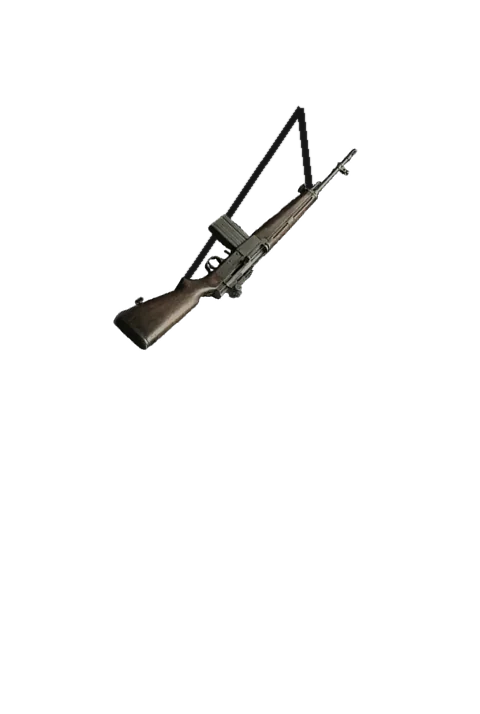
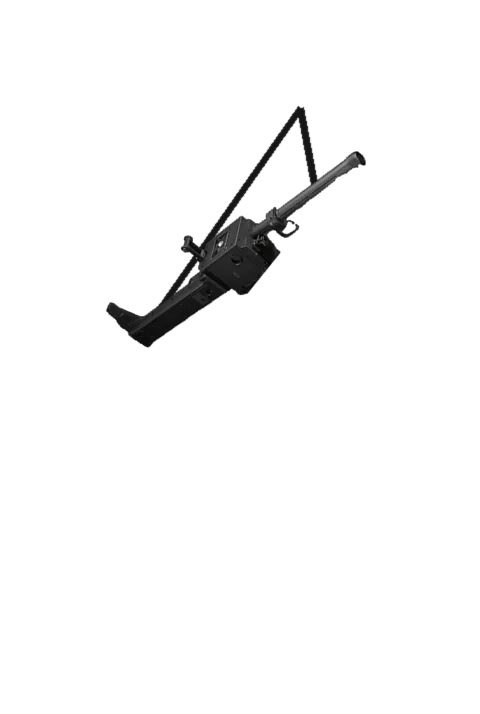
crime: v107 «·» no fim da linha e metralhadoras com fotografia certa
O «·» que separa duas coisas fica invisível quando calha no fim de uma
linha (ui.js: cada separador num span; depois de cada mudança no ecrã vê-se
se o que vem a seguir passou para a linha de baixo). As metralhadoras pesada
.50, de tripé, de cinto, de esquadra e média tinham fotografias de
espingardas de madeira ou de carabinas: fotografias novas (Leonardo Lucid
Origin no Cloudflare) e camadas do boneco refeitas, sem tripé nem bandoleira.

PT: As metralhadoras (pesada .50, de tripé, de cinto, de esquadra e média) têm fotografias novas que mostram mesmo uma metralhadora, e o boneco usa-as.
PT: Um «·» que calhava no fim de uma linha deixou de aparecer.
EN: The machine guns (.50 heavy, tripod, belt-fed, squad and medium) have new photos that actually show a machine gun, and your character uses them.
EN: A «·» that landed at the end of a line no longer shows.
IMG: gear: metralhadorapesada, metralhadoratripe, metralhadoracinto, metralhadoraesquadra, metralhadoramedia (Lucid Origin); boneco/w das mesmas

Changed region(s): [[0.2188, 0.1541, 0.7812, 0.493], [0.5625, 0.1849, 0.5938, 0.2157], [0.5312, 0.2157, 0.5625, 0.2465]]

diff --git a/sites/crime/js/i18n.js b/sites/crime/js/i18n.js
@@ -884,7 +884,7 @@ const D = {
     street: 'Rua', gym: 'Ginásio', empire: 'Império', city: 'Cidade', fights: 'Lutas',
     streetTitle: 'A rua', streetSub: 'Escolhe um golpe. Mais risco, mais lucro.',
     // v97: armas novas e acessórios
-    g_metralhadoratripe: 'Metralhadora de tripé', g_metralhadorafuzileiro: 'Metralhadora de fuzileiros', g_espingardaautopesada: 'Espingarda automática pesada', g_metralhadoraesquadra: 'Metralhadora de esquadra', g_luvaschumbo: 'Luvas com chumbo', g_soqueirapicos: 'Soqueira com picos', g_punhalsoco: 'Punhal de soco', g_garras: 'Garras de aço', g_soqueiralamina: 'Soqueira com lâmina', g_manopla: 'Manopla blindada', g_soqueiratitanio: 'Soqueira de titânio', g_xisato: 'X-ato', g_canivete: 'Canivete', g_facacozinha: 'Faca de cozinha', g_borboleta: 'Navalha borboleta', g_estilete: 'Estilete', g_baioneta: 'Baioneta', g_karambit: 'Karambit', g_facacombate: 'Faca de combate', g_kukri: 'Kukri', g_tanto: 'Tantō', g_garrafa: 'Garrafa partida', g_canoferro: 'Cano de ferro', g_tacobasebol: 'Taco de basebol', g_cassetete: 'Cassetete', g_martelo: 'Martelo', g_alavanca: 'Alavanca', g_nunchaku: 'Nunchaku', g_tacopregos: 'Taco com pregos', g_bastaoextensivel: 'Bastão extensível', g_marreta: 'Marreta', g_maca: 'Maça', g_martelodeguerra: 'Martelo de guerra', g_foice: 'Foice', g_machadinha: 'Machadinha', g_catanamato: 'Catana de mato', g_tomahawk: 'Tomahawk', g_gadanha: 'Gadanha', g_machadobatalha: 'Machado de batalha', g_motosserra: 'Motosserra', g_alabarda: 'Alabarda', g_florete: 'Florete', g_rapieira: 'Rapieira', g_cimitarra: 'Cimitarra', g_wakizashi: 'Wakizashi', g_espadalarga: 'Espada larga', g_espadamao: 'Espada de mão e meia', g_claymore: 'Claymore', g_pistola22: 'Pistola .22', g_pistolabolso: 'Pistola de bolso', g_pistola380: 'Pistola .380', g_pistolacompacta: 'Pistola compacta', g_pistola9: 'Pistola 9 mm', g_pistolapolicia: 'Pistola da polícia', g_pistolatiro: 'Pistola de tiro', g_pistola10: 'Pistola 10 mm', g_pistolamilitar: 'Pistola militar', g_pistolaaco: 'Pistola de aço inox', g_pistola57: 'Pistola 5,7 mm', g_pistolaauto: 'Pistola automática', g_pistolacarbono: 'Pistola de carbono', g_pistola50ae: 'Pistola .50', g_pistolaouro: 'Pistola dourada', g_revolver22: 'Revólver .22', g_snubnose: 'Revólver de cano curto', g_revolver357: 'Revólver .357', g_revolver44: 'Revólver .44', g_revolvercaca: 'Revólver de caça', g_revolver454: 'Revólver .454', g_revolver500: 'Revólver .500', g_revolvercolecao: 'Revólver de colecionador', g_micro: 'Micro-metralhadora', g_smg9: 'Metralhadora 9 mm', g_smgdobravel: 'Metralhadora dobrável', g_smg45: 'Metralhadora .45', g_smgpdw: 'Arma de defesa pessoal', g_smgsilenciosa: 'Metralhadora silenciosa', g_smgbullpup: 'Metralhadora bullpup', g_smgtambor: 'Metralhadora de tambor', g_smgtatica: 'Metralhadora tática', g_cacadeiraserrada: 'Caçadeira de canos serrados', g_cacadeiradupla: 'Caçadeira de dois canos', g_cacadeirapolicial: 'Caçadeira policial', g_cacadeirasemi: 'Caçadeira semiautomática', g_cacadeiratatica: 'Caçadeira tática', g_cacadeirabullpup: 'Caçadeira bullpup', g_cacadeiracarregador: 'Caçadeira de carregador', g_cacadeiraauto: 'Caçadeira automática', g_cacadeiratambor: 'Caçadeira de tambor', g_cacadeiragravada: 'Caçadeira gravada', g_carabinacurta: 'Carabina de cano curto', g_carabina556: 'Carabina 5,56', g_espingardaassalto: 'Espingarda de assalto', g_carabinapolicia: 'Carabina da polícia', g_ar762: 'Espingarda 7,62', g_carabinamilitar: 'Carabina militar', g_bullpup: 'Espingarda bullpup', g_carabinadmr: 'Espingarda de atirador designado', g_batalhapesada: 'Espingarda de batalha pesada', g_carabinaforcas: 'Carabina das forças especiais', g_carabinacarbono: 'Carabina de carbono', g_carabinaprototipo: 'Protótipo', g_espingardaar: 'Espingarda de ar comprimido', g_espingarda22: 'Espingarda .22 de repetição', g_espingardaalavanca: 'Espingarda de alavanca', g_espingarda3030: 'Espingarda .30-30', g_espingardavarmint: 'Espingarda de pragas', g_ferrolho: 'Espingarda de ferrolho', g_espingardamontanha: 'Espingarda de montanha', g_espingarda300: 'Espingarda .300 Magnum', g_espingardasafari: 'Espingarda de safari', g_espingardaexpress: 'Espingarda express de dois canos', g_sniper308: 'Sniper .308', g_sniperpolicia: 'Sniper da polícia', g_snipersemi: 'Sniper semiautomática', g_sniperbullpup: 'Sniper bullpup', g_sniper338: 'Sniper .338', g_snipersilenciosa: 'Sniper silenciosa', g_sniperartico: 'Sniper ártica', g_snipercompeticao: 'Sniper de competição', g_sniperanti: 'Antimaterial .50', g_sniperlonga: 'Sniper de longo alcance', g_metralhadoraligeira: 'Metralhadora ligeira', g_metralhadorapesada: 'Metralhadora pesada .50', g_metralhadoramedia: 'Metralhadora média', g_metralhadoracinto: 'Metralhadora de cinto', g_mod_reflex: 'Mira reflex', g_mod_holo: 'Mira holográfica', g_mod_luneta4: 'Luneta 4×', g_mod_luneta12: 'Luneta 12×', g_mod_laser: 'Mira laser', g_mod_silenciador: 'Silenciador', g_mod_compensador: 'Compensador', g_mod_choke: 'Choke', g_mod_carregador: 'Carregador alargado', g_mod_tambor: 'Carregador de tambor', g_mod_punho: 'Punho vertical', g_mod_bipe: 'Bipé', g_mod_fita: 'Fita de punho', g_mod_afiar: 'Gume afiado', g_mod_pregos: 'Pregos e arame',
+    g_metralhadoratripe: 'Metralhadora de tripé', g_metralhadorafuzileiro: 'Metralhadora de fuzileiros', g_espingardaautopesada: 'Espingarda automática pesada', g_metralhadoraesquadra: 'Metralhadora de esquadra', g_luvaschumbo: 'Luvas com chumbo', g_soqueirapicos: 'Soqueira com picos', g_punhalsoco: 'Punhal de soco', g_garras: 'Garras de aço', g_soqueiralamina: 'Soqueira com lâmina', g_manopla: 'Manopla blindada', g_soqueiratitanio: 'Soqueira de titânio', g_xisato: 'X-ato', g_canivete: 'Canivete', g_facacozinha: 'Faca de cozinha', g_borboleta: 'Navalha borboleta', g_estilete: 'Estilete', g_baioneta: 'Baioneta', g_karambit: 'Karambit', g_facacombate: 'Faca de combate', g_kukri: 'Kukri', g_tanto: 'Tantō', g_garrafa: 'Garrafa partida', g_canoferro: 'Cano de ferro', g_tacobasebol: 'Taco de basebol', g_cassetete: 'Cassetete', g_martelo: 'Martelo', g_alavanca: 'Alavanca', g_nunchaku: 'Nunchaku', g_tacopregos: 'Taco com pregos', g_bastaoextensivel: 'Bastão extensível', g_marreta: 'Marreta', g_maca: 'Maça', g_martelodeguerra: 'Martelo de guerra', g_foice: 'Foice', g_machadinha: 'Machadinha', g_catanamato: 'Catana de mato', g_tomahawk: 'Tomahawk', g_gadanha: 'Gadanha', g_machadobatalha: 'Machado de batalha', g_motosserra: 'Motosserra', g_alabarda: 'Alabarda', g_florete: 'Florete', g_rapieira: 'Rapieira', g_cimitarra: 'Cimitarra', g_wakizashi: 'Wakizashi', g_espadalarga: 'Espada larga', g_espadamao: 'Espada de mão e meia', g_claymore: 'Claymore', g_pistola22: 'Pistola .22', g_pistolabolso: 'Pistola de bolso', g_pistola380: 'Pistola .380', g_pistolacompacta: 'Pistola compacta', g_pistola9: 'Pistola 9 mm', g_pistolapolicia: 'Pistola da polícia', g_pistolatiro: 'Pistola de tiro', g_pistola10: 'Pistola 10 mm', g_pistolamilitar: 'Pistola militar', g_pistolaaco: 'Pistola de aço inox', g_pistola57: 'Pistola 5,7 mm', g_pistolaauto: 'Pistola automática', g_pistolacarbono: 'Pistola de carbono', g_pistola50ae: 'Pistola .50', g_pistolaouro: 'Pistola dourada', g_revolver22: 'Revólver .22', g_snubnose: 'Revólver de cano curto', g_revolver357: 'Revólver .357', g_revolver44: 'Revólver .44', g_revolvercaca: 'Revólver de caça', g_revolver454: 'Revólver .454', g_revolver500: 'Revólver .500', g_revolvercolecao: 'Revólver de colecionador', g_micro: 'Micro-metralhadora', g_smg9: 'Metralhadora 9 mm', g_smgdobravel: 'Metralhadora dobrável', g_smg45: 'Metralhadora .45', g_smgpdw: 'Arma de defesa pessoal', g_smgsilenciosa: 'Metralhadora silenciosa', g_smgbullpup: 'Metralhadora bullpup', g_smgtambor: 'Metralhadora de tambor', g_smgtatica: 'Metralhadora tática', g_cacadeiraserrada: 'Caçadeira de canos serrados', g_cacadeiradupla: 'Caçadeira de dois canos', g_cacadeirapolicial: 'Caçadeira policial', g_cacadeirasemi: 'Caçadeira semiautomática', g_cacadeiratatica: 'Caçadeira tática', g_cacadeirabullpup: 'Caçadeira bullpup', g_cacadeiracarregador: 'Caçadeira de carregador', g_cacadeiraauto: 'Caçadeira automática', g_cacadeiratambor: 'Caçadeira de tambor', g_cacadeiragravada: 'Caçadeira gravada', g_carabinacurta: 'Carabina de cano curto', g_carabina556: 'Carabina 5,56', g_espingardaassalto: 'Espingarda de assalto', g_carabinapolicia: 'Carabina da polícia', g_ar762: 'Espingarda 7,62', g_carabinamilitar: 'Carabina militar', g_bullpup: 'Espingarda bullpup', g_carabinadmr: 'Espingarda de atirador designado', g_batalhapesada: 'Espingarda de batalha pesada', g_carabinaforcas: 'Carabina das forças especiais', g_carabinacarbono: 'Carabina de carbono', g_carabinaprototipo: 'Protótipo', g_espingardaar: 'Espingarda de ar comprimido', g_espingarda22: 'Espingarda .22 de repetição', g_espingardaalavanca: 'Espingarda de alavanca', g_espingarda3030: 'Espingarda .30-30', g_espingardavarmint: 'Espingarda de pragas', g_ferrolho: 'Espingarda de ferrolho', g_espingardamontanha: 'Espingarda de montanha', g_espingarda300: 'Espingarda .300 Magnum', g_espingardasafari: 'Espingarda de safari', g_espingardaexpress: 'Espingarda express de dois canos', g_sniper308: 'Sniper .308', g_sniperpolicia: 'Sniper da polícia', g_snipersemi: 'Sniper semiautomática', g_sniperbullpup: 'Sniper bullpup', g_sniper338: 'Sniper .338', g_snipersilenciosa: 'Sniper silenciosa', g_sniperartico: 'Sniper ártica', g_snipercompeticao: 'Sniper de competição', g_sniperanti: 'Antimaterial .50', g_sniperlonga: 'Sniper de longo alcance', g_metralhadoraligeira: 'Metralhadora ligeira', g_metralhadorapesada: 'Metralhadora pesada\u00a0.50', g_metralhadoramedia: 'Metralhadora média', g_metralhadoracinto: 'Metralhadora de cinto', g_mod_reflex: 'Mira reflex', g_mod_holo: 'Mira holográfica', g_mod_luneta4: 'Luneta 4×', g_mod_luneta12: 'Luneta 12×', g_mod_laser: 'Mira laser', g_mod_silenciador: 'Silenciador', g_mod_compensador: 'Compensador', g_mod_choke: 'Choke', g_mod_carregador: 'Carregador alargado', g_mod_tambor: 'Carregador de tambor', g_mod_punho: 'Punho vertical', g_mod_bipe: 'Bipé', g_mod_fita: 'Fita de punho', g_mod_afiar: 'Gume afiado', g_mod_pregos: 'Pregos e arame',
     wt_soqueira: 'Soqueiras', wt_faca: 'Facas', wt_contundente: 'Contundentes', wt_lamina: 'Lâminas', wt_espada: 'Espadas', wt_pistola: 'Pistolas', wt_revolver: 'Revólveres', wt_smg: 'Metralhadoras', wt_cacadeira: 'Caçadeiras', wt_carabina: 'Carabinas', wt_espingarda: 'Espingardas', wt_sniper: 'Snipers', wt_pesada: 'Pesadas',
     dollTakeW: 'Guardar a arma', wAccS: 'Precisão {n}', wRngS: 'Alcance {n}', wDmg: 'Ataque', wBest: 'Melhores', wSeeAll: 'Ver todas ({n})', wModYour: 'Serve em: {x}', wHave: 'Tens {n}', wOn: 'Montados {n}/{m}', wBag: 'No inventário', wAcc: 'Precisão', wRng: 'Alcance', wMods: 'Acessórios', wModFree: 'Espaço livre', wModFit: 'Montar', wModTake: 'Tirar', wModNone: 'Nenhum acessório do inventário serve nesta arma.', wModFits: 'Serve em: {x}', wAll: 'Todas',
     wModsT: 'Acessórios', wModsSub: 'Montam-se numa arma vestida, no inventário.', wfx_crit: '{p}% de críticos', wfx_ammo: '−{n} balas por golpe', wfx_bust: '−{p}% de ser apanhado com arma', tModFit: '{x} montado.', tModTake: '{x} de volta ao inventário.',

diff --git a/sites/crime/js/app.js b/sites/crime/js/app.js
@@ -460,7 +460,9 @@ const PARENT = { gyms: 'gym', livros: 'city', hunt: 'city', honras: 'city', viag
   biz: 'empire', port: 'city', air: 'city', myclub: 'empire', mybro: 'empire', bolsa: 'empire', stash: 'empire', acct: 'empire', casa: 'empire', bank: 'empire', lux: 'empire', arms: 'fights', rank: 'fights', hitman: 'fights', ops: 'rob' };
 const upOf = (id) => (S.backTo && S.backTo[id]) || PARENT[id] || 'city';   // um sítio que está em duas zonas volta para a zona de onde vieste
 const tabOf = (id) => { let x = id; for (let k = 0; k < 4 && !NAV.includes(x); k++) x = upOf(x); return NAV.includes(x) ? x : 'city'; };
-const IMG = (kind, id, big) => `/img/${kind}/${id}${big ? '-g' : ''}.webp?${kind === 'classes' ? 17 : 18}`;   // v90: retratos novos das profissões; v106: casas, cave e caveira em fotografia, peças do museu recortadas
+// v107: imagens trocadas depois da última subida geral (as metralhadoras tinham fotografias de espingardas de madeira)
+const IMG_V = { 'gear/metralhadorapesada': 19, 'gear/metralhadoratripe': 19, 'gear/metralhadoracinto': 19, 'gear/metralhadoraesquadra': 19, 'gear/metralhadoramedia': 19 };
+const IMG = (kind, id, big) => `/img/${kind}/${id}${big ? '-g' : ''}.webp?${IMG_V[kind + '/' + id] || (kind === 'classes' ? 17 : 18)}`;   // v90: retratos novos das profissões; v106: casas, cave e caveira em fotografia, peças do museu recortadas
 // o que cada sítio precisa de ir buscar ao servidor (ao entrar nele, e também quando o jogo abre já nesse sítio)
 function loadFor(tab) {
   if (tab === 'fights') { if (S.fightSeg === 'events') loadEvents(true); else { S.fightSeg = 'targets'; loadTargets(); } }
@@ -2633,7 +2635,7 @@ function needsLine(me, needs, n) {
       : h('span', { class: 'c-red' }, item);
     // o «·» vai colado ao fim do que vem antes (depois de um botão partia a linha e ficava no início da seguinte)
     if (short) return h('span', { class: 'cvl' }, node);
-    return [i ? ' ' : null, i < last ? h('span', { class: 'cvj' }, node, '\u00a0·') : node];
+    return [i ? ' ' : null, i < last ? h('span', { class: 'cvj' }, node, h('span', { class: 'sdot' }, '\u00a0·')) : node];
   });
 }
 function caveBench(me, preso) {
@@ -4460,7 +4462,7 @@ const DOLL_TYPE = { pressao: 'L_espingarda', caca: 'L_espingarda', ligeira: 'L_e
 // v106: cada arma aparece no corpo com a sua própria fotografia (img/boneco/w/<id>): as brancas na mão direita, as de mão na esquerda,
 // as compridas ao peito com a correia. A camada do tipo fica de reserva, se a da arma faltar.
 const DOLLT = (id) => { const g = gearOf(id); return `/img/boneco/${g && g.t ? 'L_' + g.t : DOLL_TYPE[id] || id}.webp?2`; };
-const DOLL = (id) => { const g = gearOf(id); return g && g.t ? `/img/boneco/w/${id}.webp?2` : DOLLT(id); };
+const DOLL = (id) => { const g = gearOf(id); return g && g.t ? `/img/boneco/w/${id}.webp?${IMG_V['gear/' + id] ? 3 : 2}` : DOLLT(id); };   // v107: as camadas das armas com fotografia nova
 const gearFits = (it) => { const g = it && !isGood(it.id) ? gearOf(it.id) : null; return g && g.slot !== 'mat' ? g.slot : null; };
 const gearStat = (g) => (g.atk ? t('dollAtk', { p: pctOf(g.atk) }) : g.def ? t('dollDef', { p: pctOf(g.def) }) : g.room ? t('dollRoom', { n: g.room }) : '');
 // na grelha, uma peça que se veste diz logo se é melhor (▲ verde) ou pior (▼ vermelho) do que a que está vestida

diff --git a/sites/crime/js/ui.js b/sites/crime/js/ui.js
@@ -36,8 +36,49 @@ function add(el, kids) {
     if (k === null || k === undefined || k === false) continue;
     if (Array.isArray(k)) add(el, k);
     else if (k instanceof Node) el.appendChild(k);
-    else el.appendChild(document.createTextNode(tidy(String(k))));
+    else {
+      const txt = tidy(String(k));
+      if (txt.indexOf('\u00a0·') < 0) { el.appendChild(document.createTextNode(txt)); continue; }
+      // v106: cada «·» separador fica num span (sdot), para se esconder quando calha no fim de uma linha (ver dotPass)
+      txt.split(/\u00a0·(?=[ \u00a0])/).forEach((part, i) => {
+        if (i) { const d = document.createElement('span'); d.className = 'sdot'; d.textContent = '\u00a0·'; el.appendChild(d); }
+        if (part) el.appendChild(document.createTextNode(part));
+      });
+    }
   }
+}
+// Um «·» que separa duas coisas não serve para nada no fim de uma linha («Negócios +10% ·» / «31 dias»): depois de cada
+// mudança no ecrã, vê-se onde cai o primeiro carácter a seguir a cada «·»; se for numa linha de baixo, o «·» fica invisível
+// (só a cor: o espaço continua lá, por isso a linha não muda de sítio). O mesmo quando é o último da caixa.
+const INLINE = new Set(['inline', 'contents']);
+function nextChar(d) {
+  let box = d.parentElement;
+  while (box && box !== document.body && INLINE.has(getComputedStyle(box).display)) box = box.parentElement;
+  if (!box) return null;
+  const w = document.createTreeWalker(box, NodeFilter.SHOW_TEXT);
+  w.currentNode = d.lastChild || d;
+  for (let n = w.nextNode(); n; n = w.nextNode()) {
+    const i = n.data.search(/[^\s\u00a0]/);
+    if (i >= 0 && n.parentElement && n.parentElement.getClientRects().length) { const r = document.createRange(); r.setStart(n, i); r.setEnd(n, i + 1); return r.getBoundingClientRect(); }
+  }
+  return null;
+}
+function dotPass() {
+  dotRaf = 0;
+  const ds = document.querySelectorAll('.sdot'), out = [];
+  for (const d of ds) {
+    const a = d.getClientRects(); if (!a.length) continue;
+    const r = a[a.length - 1], nx = nextChar(d);
+    out.push([d, !nx || nx.top >= r.bottom - 2]);
+  }
+  for (const [d, end] of out) d.classList.toggle('eol', end);
+}
+let dotRaf = 0;
+const dotLater = () => { if (!dotRaf) dotRaf = requestAnimationFrame(dotPass); };
+if (typeof document !== 'undefined' && typeof MutationObserver !== 'undefined') {
+  new MutationObserver(dotLater).observe(document.documentElement, { childList: true, subtree: true });
+  addEventListener('resize', dotLater);
+  document.fonts?.ready?.then(dotLater);
 }
 // o texto nunca parte mal: o «·» fica agarrado à palavra de antes (uma linha nunca começa por «·»), os milhares escritos à mão
 // («5 000») não se separam e um intervalo («224 €–336 €») não parte a seguir ao traço

diff --git a/sites/crime/css/app.css b/sites/crime/css/app.css
@@ -3831,3 +3831,4 @@ body .mextra .vth { -webkit-mask-image: none; mask-image: none; }
 /* depósito da cave: sem divisória na última linha (a borda sai 1 px para fora e o cartão corta-a) e com ar antes dos atalhos */
 body .cvdep { padding-bottom: 0; overflow: hidden; margin-bottom: 12px; } body .cvdep > .cvm { margin-bottom: -1px; }
 body .plaque .pcols > .pcol:last-child:nth-child(odd) { grid-column: 1 / -1; }   /* um conjunto sozinho na linha usa a largura toda */
+.sdot.eol { visibility: hidden; }   /* «·» no fim de uma linha: não separa nada (ui.js, dotPass) */

diff --git a/sites/crime/sw.js b/sites/crime/sw.js
@@ -1,5 +1,5 @@
 // Guarda a casca do jogo para abrir depressa; os dados vêm sempre do servidor.
-const V = 'crime-116';
+const V = 'crime-117';
 // Imagens: guardadas à parte e de vez (não se apagam quando sai uma versão nova do jogo). Cada endereço leva o número da versão da imagem (?N).
 const IMGS = 'crime-img-1';
 const SHELL = ['/', '/css/app.css', '/js/app.js', '/js/i18n.js', '/js/ui.js', '/js/fx.js', '/js/reveal.js', '/js/crazy.js', '/js/casino3d.js', '/js/globo.js', '/js/terra.js', '/js/tarefas.js', '/js/prisao.js', '/js/honras.js',

diff --git a/crime/dev/boneco106-armas.py b/crime/dev/boneco106-armas.py
@@ -20,7 +20,11 @@ MAO_D, MAO_E = (126, 386), (352, 383)   # mãos (direita do boneco à esquerda d
 _S = None
 _U = None
 U2 = {'katana', 'espadamao', 'claymore'}
-CORTE = {'metralhadoraligeira': 350, 'metralhadorafuzileiro': 332}
+CORTE = {'metralhadoraligeira': 350, 'metralhadorafuzileiro': 332, 'metralhadorapesada': 305}   # v107: a .50 ao ombro, sem o tripé
+def _sem_tripe(m):   # v107: a de tripé — tira o tripé (mais acima no meio, onde está a cabeça do tripé) e as caixas de munição
+    m[285:] = False; m[262:, 230:370] = False; return m
+CORTE_F = {'metralhadoratripe': _sem_tripe}
+SEM_TAN = {'metralhadoramedia'}   # a bandoleira cor de areia não vai para o boneco
 # v106: as fotografias das pistolas e revólveres têm a arma preta em cima de fundo preto e o recorte apanhava sombras e o carregador;
 # usam-se 7 desenhos de catálogo (Flux, em dev/boneco-fontes/, fundo branco) com o mesmo tipo e as mesmas cores de cada fotografia
 FONTES = os.path.join(AQUI, 'boneco-fontes') + '/'
@@ -68,6 +72,9 @@ def recorta(id):
     o = remove(Image.open(GEAR + id + '.webp').convert('RGB'), session=_U if id in U2 else _S)
     A = np.asarray(o); m = A[..., 3] > (18 if id in U2 else 35 if tipo[id] in ('faca', 'lamina', 'contundente') else 140)   # lâminas finas e claras saem com pouca opacidade
     if id in CORTE: m[CORTE[id]:] = False   # fotografias com a arma num suporte: corta-se o suporte
+    if id in CORTE_F: m = CORTE_F[id](m)
+    if id in SEM_TAN:
+        C = A[..., :3].astype(int); m &= ~((C[..., 0] - C[..., 2] > 12) & (C[..., 0] > 35)); m[378:, 255:490] = False   # e o rolo da bandoleira no chão
     m = ndimage.binary_opening(m, iterations=1)
     lab, n = ndimage.label(m)
     if not n: return None
